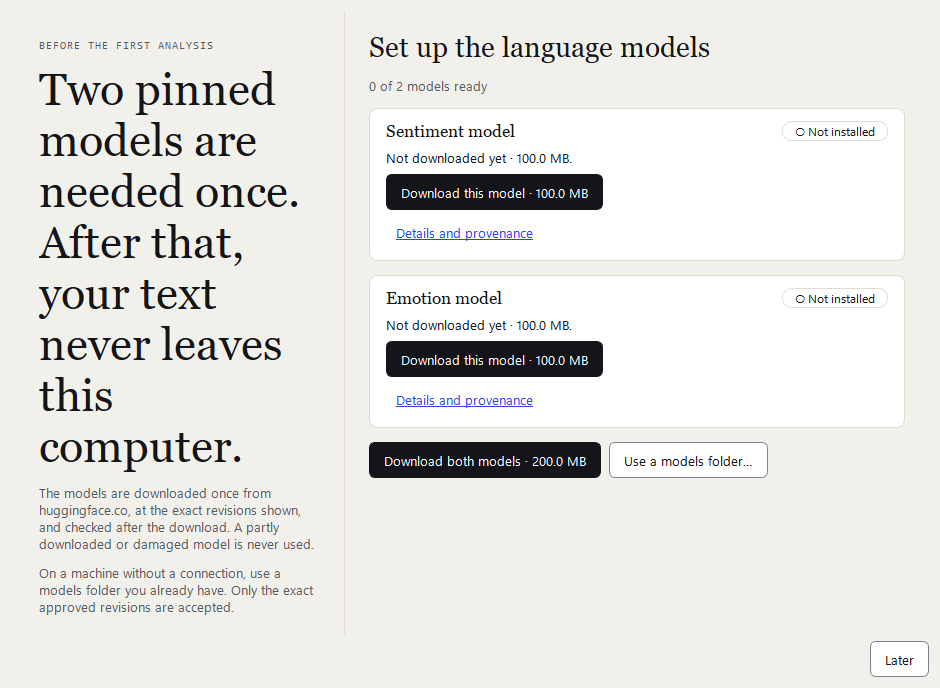
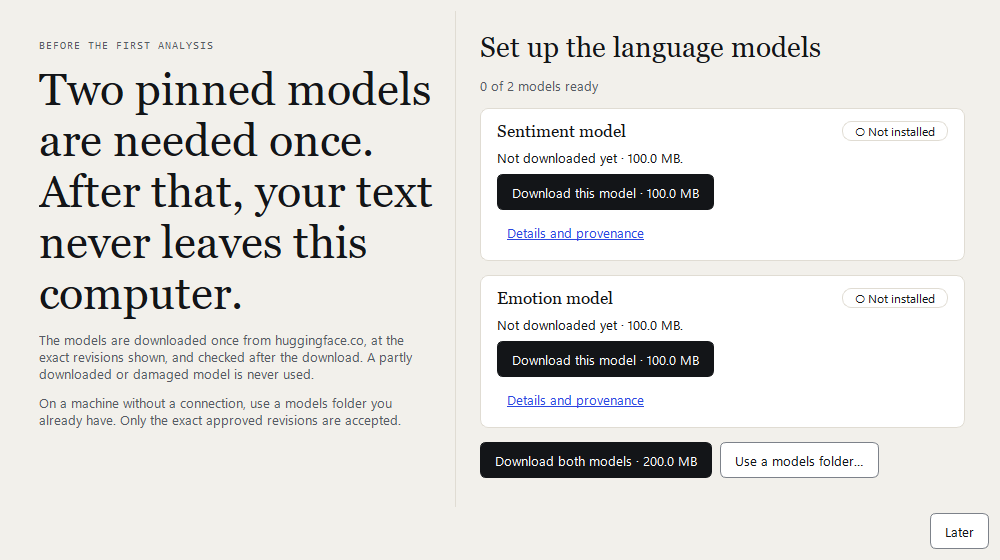
feat(desktop): wider first-run hero; refreshed setup evidence

diff --git a/src/social_text_intelligence/desktop/qt/provisioning_ui.py b/src/social_text_intelligence/desktop/qt/provisioning_ui.py
@@ -63,14 +63,14 @@ class PanelDialog(QDialog):
         super().__init__(parent)
         self.setWindowTitle(title)
         self.setAccessibleName(title)
-        self.setMinimumSize(940 if hero else 640, 560)
+        self.setMinimumSize(1000 if hero else 640, 560)
         layout = QVBoxLayout(self)
         self.panel = ProvisioningPanel()
         if hero:
             split = QHBoxLayout()
             split.setSpacing(0)
-            split.addWidget(self._hero(), 4)
-            split.addWidget(self.panel, 7)
+            split.addWidget(self._hero(), 5)
+            split.addWidget(self.panel, 6)
             layout.addLayout(split, 1)
         else:
             layout.addWidget(self.panel, 1)

diff --git a/src/social_text_intelligence/desktop/qt/style.py b/src/social_text_intelligence/desktop/qt/style.py
@@ -119,7 +119,7 @@ QLabel[role="title"] {{ font-family: {SERIF}; font-size: {SIZE_TITLE}; }}
 QLabel[role="figure"] {{ font-family: {SERIF}; font-size: {SIZE_FIGURE}; }}
 QLabel[role="display"] {{ font-family: {SERIF}; font-size: {SIZE_DISPLAY}; }}
 QLabel[role="numeral"] {{ font-family: {SERIF}; font-size: 20pt; color: {LINE_STRONG}; }}
-QLabel[role="display"][size="hero"] {{ font-size: 25pt; }}
+QLabel[role="display"][size="hero"] {{ font-size: 23pt; }}
 QWidget#setup-hero {{ background: {PAPER}; border-right: 1px solid {LINE}; }}
 QLabel[role="word"] {{ font-family: {SERIF}; font-size: {SIZE_WORD}; }}
 QLabel[quote="true"] {{ font-family: {SERIF}; font-size: {SIZE_QUOTE}; }}
